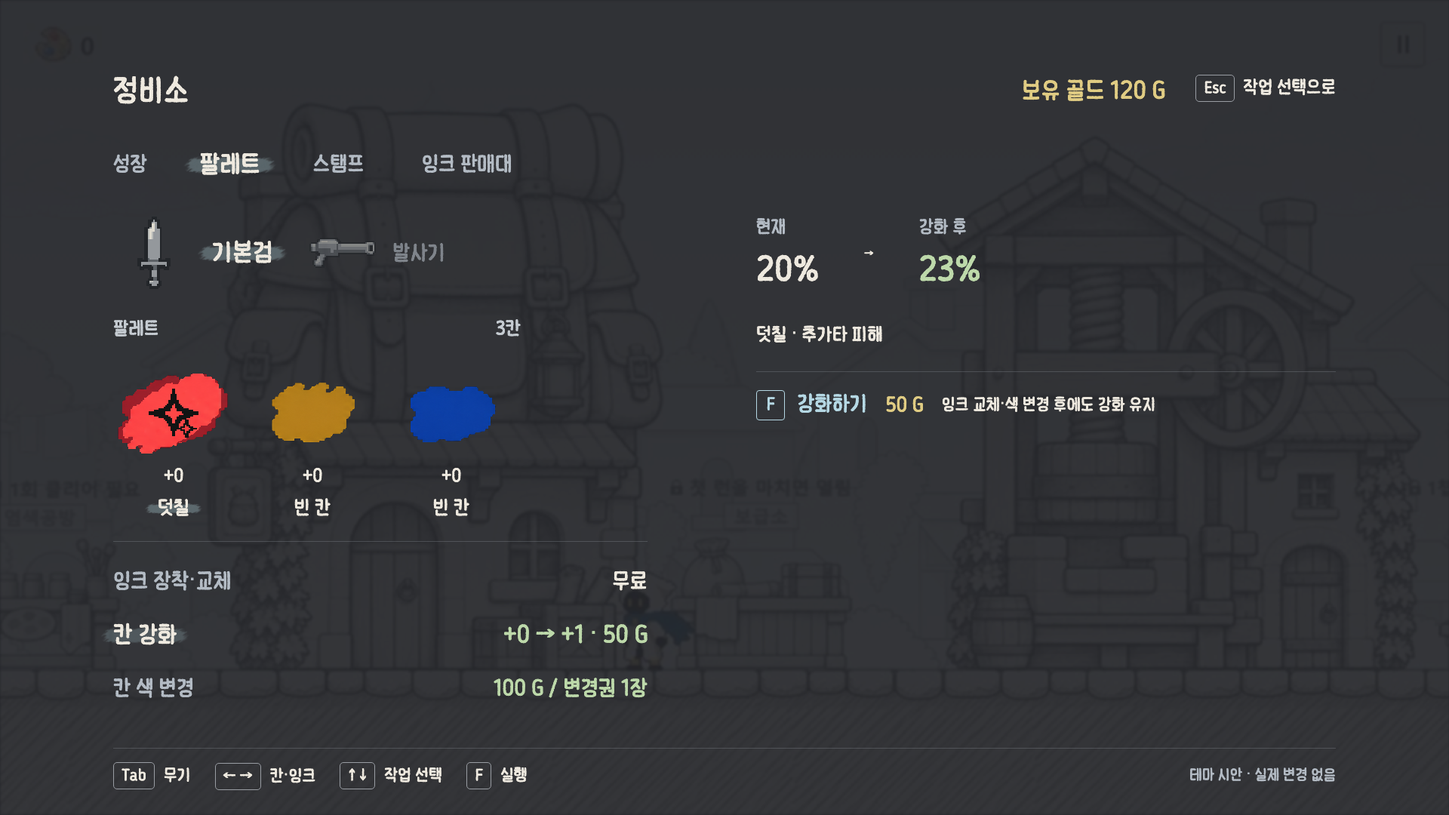
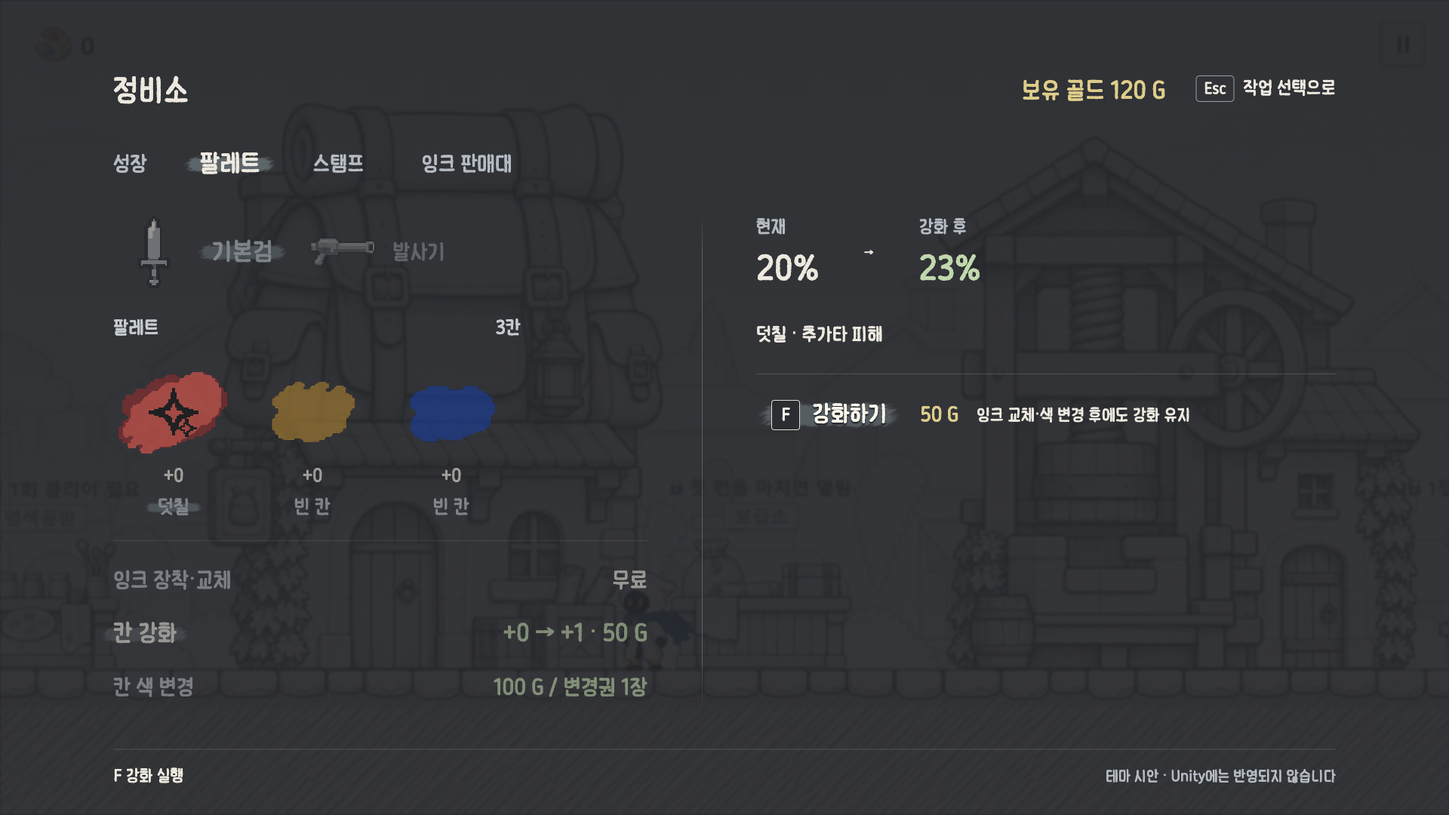
Apply explicit region navigation to maintenance palette

diff --git a/ui/work/theme/ink-pixel-v1/catalog-data.js b/ui/work/theme/ink-pixel-v1/catalog-data.js
@@ -1,1 +1,1 @@
-const catalogItems=[{"group": "가방·장비", "title": "장비 · 2단계 팔레트 선택", "img": "screen-set-v6/previews/equipment-slot-stage.png", "url": "screen-set-v6/index.html?view=equipment&stage=palette"},{"group": "가방·장비", "title": "가방", "img": "screen-set-v6/previews/bag.png", "url": "screen-set-v6/index.html?view=bag"}, {"group": "가방·장비", "title": "가방 · 아래로 스크롤 / 빈칸", "img": "screen-set-v6/previews/bag-scroll.png", "url": "screen-set-v6/index.html?view=bag&scroll=bottom"}, {"group": "가방·장비", "title": "장비 · 무기와 스킬", "img": "screen-set-v6/previews/equipment.png", "url": "screen-set-v6/index.html?view=equipment"}, {"group": "가방·장비", "title": "장비 · 발사기", "img": "screen-set-v6/previews/equipment-launcher.png", "url": "screen-set-v6/index.html?view=equipment&weapon=1"}, {"group": "가방·장비", "title": "장비 · 스탬프 없음", "img": "screen-set-v6/previews/equipment-empty-stamps.png", "url": "screen-set-v6/index.html?view=equipment&stamps=empty"}, {"group": "가방·장비", "title": "장비 · 잉크 교체", "img": "screen-set-v6/previews/equipment-palette.png", "url": "screen-set-v6/index.html?view=equipment&slot=0"}, {"group": "가방·장비", "title": "장비 · 무색 칸", "img": "screen-set-v6/previews/equipment-neutral.png", "url": "screen-set-v6/index.html?view=equipment&slot=4"}, {"group": "가방·장비", "title": "장비 · 교체 후 상태", "img": "screen-set-v6/previews/equipment-replaced.png", "url": "screen-set-v6/index.html?view=equipment&slot=0&result=done"}, {"group": "가방·장비", "title": "가방 · 빈 카테고리", "img": "screen-set-v6/previews/bag-empty.png", "url": "screen-set-v6/index.html?view=bag&category=2"}, {"group": "정비소", "title": "성장", "img": "maintenance-growth-v2/previews/growth.png", "url": "maintenance-growth-v2/index.html?"}, {"group": "정비소", "title": "팔레트 · 칸 강화", "img": "maintenance-palette-v1/previews/unified-upgrade.png", "url": "maintenance-palette-v1/index.html?task=upgrade"}, {"group": "정비소", "title": "팔레트 · 무작위 색 변경", "img": "maintenance-palette-v1/previews/unified-color.png", "url": "maintenance-palette-v1/index.html?task=color"}, {"group": "정비소", "title": "팔레트 · 반환 공간 부족", "img": "maintenance-palette-v1/previews/random-color-full.png", "url": "maintenance-palette-v1/index.html?task=color&case=full"}, {"group": "정비소", "title": "무기 스탬프", "img": "maintenance-stamp-v1/previews/weapon.png", "url": "maintenance-stamp-v1/index.html?"}, {"group": "정비소", "title": "스킬 스탬프 · 후속타", "img": "maintenance-stamp-v1/previews/skill-followup.png", "url": "maintenance-stamp-v1/index.html?kind=skill&pick=2"}, {"group": "정비소", "title": "스탬프 · 첫 장착", "img": "maintenance-stamp-v1/previews/empty.png", "url": "maintenance-stamp-v1/index.html?case=empty"}, {"group": "정비소", "title": "스탬프 · 골드 부족", "img": "maintenance-stamp-v1/previews/poor.png", "url": "maintenance-stamp-v1/index.html?case=poor"}, {"group": "판매대", "title": "잉크 판매대", "img": "ink-shop-v1/previews/shop.png", "url": "ink-shop-v1/index.html?"}, {"group": "판매대", "title": "판매대 · 구매 후", "img": "ink-shop-v1/previews/purchased.png", "url": "ink-shop-v1/index.html?case=bought"}, {"group": "판매대", "title": "판매대 · 가방 가득 참", "img": "ink-shop-v1/previews/full.png", "url": "ink-shop-v1/index.html?case=full"}, {"group": "판매대", "title": "판매대 · 골드 부족", "img": "ink-shop-v1/previews/poor.png", "url": "ink-shop-v1/index.html?case=poor"}, {"group": "지도", "title": "전체 지도 · 새 시안", "img": "full-map-v1/previews/map.png", "url": "full-map-v1/index.html?"}, {"group": "정비소", "title": "팔레트 · 변경권 선택", "img": "maintenance-palette-v1/previews/color-ticket.png", "url": "maintenance-palette-v1/index.html?task=color&payment=ticket"}, {"group": "정비소", "title": "팔레트 · 잉크 장착·교체", "img": "maintenance-palette-v1/previews/palette-ink.png", "url": "maintenance-palette-v1/index.html?task=ink"}, {"group": "지도", "title": "지도 · 200% 확대", "img": "full-map-v1/previews/map-zoom-200.png", "url": "full-map-v1/index.html?zoom=2"}, {"group": "일시정지", "title": "전투 · 일시정지", "img": "pause-menu-v1/previews/combat.png", "url": "pause-menu-v1/index.html?context=combat"}, {"group": "일시정지", "title": "마을 · 일시정지", "img": "pause-menu-v1/previews/village.png", "url": "pause-menu-v1/index.html?context=village"}, {"group": "일시정지", "title": "조작 안내", "img": "pause-menu-v1/previews/help.png", "url": "pause-menu-v1/index.html?view=help"}, {"group": "일시정지", "title": "도전 종료 · 마을 복귀 확인", "img": "pause-menu-v1/previews/confirm.png", "url": "pause-menu-v1/index.html?view=confirm"}, {"group": "출발 준비", "title": "출발 · 첫 도면 선택", "img": "departure-v1/previews/choose.png", "url": "departure-v1/index.html?"}, {"group": "출발 준비", "title": "출발 · 두 번째 도면 선택", "img": "departure-v1/previews/second.png", "url": "departure-v1/index.html?step=2"}, {"group": "출발 준비", "title": "준비 저장 · 다시 뽑기 없음", "img": "departure-v1/previews/palette-three.png", "url": "departure-v1/index.html?view=ready"}, {"group": "출발 준비", "title": "시작 팔레트 · 5칸 / 무색 / 다시 뽑기", "img": "departure-v1/previews/palette-five.png", "url": "departure-v1/index.html?view=palette&slots=5"}, {"group": "출발 준비", "title": "출발 준비 저장", "img": "departure-v1/previews/ready.png", "url": "departure-v1/index.html?view=ready"}, {"group": "일시정지", "title": "마을 · 다시 시작 확인", "img": "pause-menu-v1/previews/restart.png", "url": "pause-menu-v1/index.html?context=village&view=restart"}, {"group": "도전 결과", "title": "일반 사망", "img": "run-result-v1/previews/death.png", "url": "run-result-v1/index.html?kind=death"}, {"group": "도전 결과", "title": "보스전 사망", "img": "run-result-v1/previews/boss.png", "url": "run-result-v1/index.html?kind=boss"}, {"group": "도전 결과", "title": "첫 챕터 클리어", "img": "run-result-v1/previews/clear.png", "url": "run-result-v1/index.html?kind=clear"}, {"group": "전투 HUD", "title": "전투 HUD · 기본", "img": "combat-hud-v2/previews/exploration.png", "url": "combat-hud-v2/index.html?"}, {"group": "전투 HUD", "title": "전투 HUD · 어두운 배경", "img": "combat-hud-v2/previews/dark.png", "url": "combat-hud-v2/index.html?scene=dark"}, {"group": "전투 HUD", "title": "전투 HUD · 획득 알림", "img": "combat-hud-v2/previews/pickup.png", "url": "combat-hud-v2/index.html?state=pickup"}, {"group": "전투 HUD", "title": "전투 HUD · 보스 배치", "img": "combat-hud-v2/previews/boss.png", "url": "combat-hud-v2/index.html?state=boss"}, {"group": "설정", "title": "소리 설정", "img": "settings-v1/previews/sound.png", "url": "settings-v1/index.html?tab=sound"}, {"group": "설정", "title": "화면 설정", "img": "settings-v1/previews/display.png", "url": "settings-v1/index.html?tab=display&state=changed"}, {"group": "설정", "title": "조작 설정 · 이동 / 스크롤 상단", "img": "settings-v1/previews/controls.png", "url": "settings-v1/index.html?tab=controls"}, {"group": "설정", "title": "조작 설정 · 전투 / 스크롤 중간", "img": "settings-v1/previews/controls-combat.png", "url": "settings-v1/index.html?tab=controls&scroll=combat"}, {"group": "설정", "title": "조작 설정 · 탐험 / 스크롤 하단", "img": "settings-v1/previews/controls-explore.png", "url": "settings-v1/index.html?tab=controls&scroll=bottom"}, {"group": "설정", "title": "조작키 변경", "img": "settings-v1/previews/rebind.png", "url": "settings-v1/index.html?tab=controls&state=rebind"}, {"group": "설정", "title": "화면 적용 확인", "img": "settings-v1/previews/confirm.png", "url": "settings-v1/index.html?tab=display&state=confirm"}, {"group": "재화 에셋", "title": "골드 · 마법안료 — 확정 형태", "img": "currency-v1/preview.png", "url": "currency-v1/index.html"}, {"group": "봉인 도전", "title": "증강 보상 · 공격력 선택", "img": "seal-reward-v1/previews/choice-0.png", "url": "seal-reward-v1/index.html?pick=0"}, {"group": "봉인 도전", "title": "증강 보상 · 공격 속도 선택", "img": "seal-reward-v1/previews/choice-1.png", "url": "seal-reward-v1/index.html?pick=1"}, {"group": "봉인 도전", "title": "증강 보상 · 최대 체력 선택", "img": "seal-reward-v1/previews/choice-2.png", "url": "seal-reward-v1/index.html?pick=2"}, {"group": "보스 잉크 제단", "title": "제단 · 색상 선택", "img": "boss-altar-v1/previews/colors.png", "url": "boss-altar-v1/index.html?"}, {"group": "보스 잉크 제단", "title": "제단 · 잉크 후보 비교", "img": "boss-altar-v1/previews/inks.png", "url": "boss-altar-v1/index.html?color=red"}, {"group": "출발 준비", "title": "출발 준비 · 확정 버튼 선택", "img": "departure-v1/previews/ready-confirm.png", "url": "departure-v1/index.html?view=ready&action=confirm"}];
+const catalogItems=[{"group": "정비소", "title": "팔레트 · 무기 선택부터 조작", "img": "maintenance-palette-v1/previews/flow-weapon.png", "url": "maintenance-palette-v1/index.html?"},{"group": "정비소", "title": "팔레트 · 칸 선택", "img": "maintenance-palette-v1/previews/flow-slot.png", "url": "maintenance-palette-v1/index.html?region=slot&state=slot"},{"group": "정비소", "title": "팔레트 · 작업 선택", "img": "maintenance-palette-v1/previews/flow-task.png", "url": "maintenance-palette-v1/index.html?region=task&task=upgrade"},{"group": "가방·장비", "title": "장비 · 2단계 팔레트 선택", "img": "screen-set-v6/previews/equipment-slot-stage.png", "url": "screen-set-v6/index.html?view=equipment&stage=palette"},{"group": "가방·장비", "title": "가방", "img": "screen-set-v6/previews/bag.png", "url": "screen-set-v6/index.html?view=bag"}, {"group": "가방·장비", "title": "가방 · 아래로 스크롤 / 빈칸", "img": "screen-set-v6/previews/bag-scroll.png", "url": "screen-set-v6/index.html?view=bag&scroll=bottom"}, {"group": "가방·장비", "title": "장비 · 무기와 스킬", "img": "screen-set-v6/previews/equipment.png", "url": "screen-set-v6/index.html?view=equipment"}, {"group": "가방·장비", "title": "장비 · 발사기", "img": "screen-set-v6/previews/equipment-launcher.png", "url": "screen-set-v6/index.html?view=equipment&weapon=1"}, {"group": "가방·장비", "title": "장비 · 스탬프 없음", "img": "screen-set-v6/previews/equipment-empty-stamps.png", "url": "screen-set-v6/index.html?view=equipment&stamps=empty"}, {"group": "가방·장비", "title": "장비 · 잉크 교체", "img": "screen-set-v6/previews/equipment-palette.png", "url": "screen-set-v6/index.html?view=equipment&slot=0"}, {"group": "가방·장비", "title": "장비 · 무색 칸", "img": "screen-set-v6/previews/equipment-neutral.png", "url": "screen-set-v6/index.html?view=equipment&slot=4"}, {"group": "가방·장비", "title": "장비 · 교체 후 상태", "img": "screen-set-v6/previews/equipment-replaced.png", "url": "screen-set-v6/index.html?view=equipment&slot=0&result=done"}, {"group": "가방·장비", "title": "가방 · 빈 카테고리", "img": "screen-set-v6/previews/bag-empty.png", "url": "screen-set-v6/index.html?view=bag&category=2"}, {"group": "정비소", "title": "성장", "img": "maintenance-growth-v2/previews/growth.png", "url": "maintenance-growth-v2/index.html?"}, {"group": "정비소", "title": "팔레트 · 칸 강화", "img": "maintenance-palette-v1/previews/unified-upgrade.png", "url": "maintenance-palette-v1/index.html?task=upgrade"}, {"group": "정비소", "title": "팔레트 · 무작위 색 변경", "img": "maintenance-palette-v1/previews/unified-color.png", "url": "maintenance-palette-v1/index.html?task=color"}, {"group": "정비소", "title": "팔레트 · 반환 공간 부족", "img": "maintenance-palette-v1/previews/random-color-full.png", "url": "maintenance-palette-v1/index.html?task=color&case=full"}, {"group": "정비소", "title": "무기 스탬프", "img": "maintenance-stamp-v1/previews/weapon.png", "url": "maintenance-stamp-v1/index.html?"}, {"group": "정비소", "title": "스킬 스탬프 · 후속타", "img": "maintenance-stamp-v1/previews/skill-followup.png", "url": "maintenance-stamp-v1/index.html?kind=skill&pick=2"}, {"group": "정비소", "title": "스탬프 · 첫 장착", "img": "maintenance-stamp-v1/previews/empty.png", "url": "maintenance-stamp-v1/index.html?case=empty"}, {"group": "정비소", "title": "스탬프 · 골드 부족", "img": "maintenance-stamp-v1/previews/poor.png", "url": "maintenance-stamp-v1/index.html?case=poor"}, {"group": "판매대", "title": "잉크 판매대", "img": "ink-shop-v1/previews/shop.png", "url": "ink-shop-v1/index.html?"}, {"group": "판매대", "title": "판매대 · 구매 후", "img": "ink-shop-v1/previews/purchased.png", "url": "ink-shop-v1/index.html?case=bought"}, {"group": "판매대", "title": "판매대 · 가방 가득 참", "img": "ink-shop-v1/previews/full.png", "url": "ink-shop-v1/index.html?case=full"}, {"group": "판매대", "title": "판매대 · 골드 부족", "img": "ink-shop-v1/previews/poor.png", "url": "ink-shop-v1/index.html?case=poor"}, {"group": "지도", "title": "전체 지도 · 새 시안", "img": "full-map-v1/previews/map.png", "url": "full-map-v1/index.html?"}, {"group": "정비소", "title": "팔레트 · 변경권 선택", "img": "maintenance-palette-v1/previews/color-ticket.png", "url": "maintenance-palette-v1/index.html?task=color&payment=ticket"}, {"group": "정비소", "title": "팔레트 · 잉크 장착·교체", "img": "maintenance-palette-v1/previews/palette-ink.png", "url": "maintenance-palette-v1/index.html?task=ink"}, {"group": "지도", "title": "지도 · 200% 확대", "img": "full-map-v1/previews/map-zoom-200.png", "url": "full-map-v1/index.html?zoom=2"}, {"group": "일시정지", "title": "전투 · 일시정지", "img": "pause-menu-v1/previews/combat.png", "url": "pause-menu-v1/index.html?context=combat"}, {"group": "일시정지", "title": "마을 · 일시정지", "img": "pause-menu-v1/previews/village.png", "url": "pause-menu-v1/index.html?context=village"}, {"group": "일시정지", "title": "조작 안내", "img": "pause-menu-v1/previews/help.png", "url": "pause-menu-v1/index.html?view=help"}, {"group": "일시정지", "title": "도전 종료 · 마을 복귀 확인", "img": "pause-menu-v1/previews/confirm.png", "url": "pause-menu-v1/index.html?view=confirm"}, {"group": "출발 준비", "title": "출발 · 첫 도면 선택", "img": "departure-v1/previews/choose.png", "url": "departure-v1/index.html?"}, {"group": "출발 준비", "title": "출발 · 두 번째 도면 선택", "img": "departure-v1/previews/second.png", "url": "departure-v1/index.html?step=2"}, {"group": "출발 준비", "title": "준비 저장 · 다시 뽑기 없음", "img": "departure-v1/previews/palette-three.png", "url": "departure-v1/index.html?view=ready"}, {"group": "출발 준비", "title": "시작 팔레트 · 5칸 / 무색 / 다시 뽑기", "img": "departure-v1/previews/palette-five.png", "url": "departure-v1/index.html?view=palette&slots=5"}, {"group": "출발 준비", "title": "출발 준비 저장", "img": "departure-v1/previews/ready.png", "url": "departure-v1/index.html?view=ready"}, {"group": "일시정지", "title": "마을 · 다시 시작 확인", "img": "pause-menu-v1/previews/restart.png", "url": "pause-menu-v1/index.html?context=village&view=restart"}, {"group": "도전 결과", "title": "일반 사망", "img": "run-result-v1/previews/death.png", "url": "run-result-v1/index.html?kind=death"}, {"group": "도전 결과", "title": "보스전 사망", "img": "run-result-v1/previews/boss.png", "url": "run-result-v1/index.html?kind=boss"}, {"group": "도전 결과", "title": "첫 챕터 클리어", "img": "run-result-v1/previews/clear.png", "url": "run-result-v1/index.html?kind=clear"}, {"group": "전투 HUD", "title": "전투 HUD · 기본", "img": "combat-hud-v2/previews/exploration.png", "url": "combat-hud-v2/index.html?"}, {"group": "전투 HUD", "title": "전투 HUD · 어두운 배경", "img": "combat-hud-v2/previews/dark.png", "url": "combat-hud-v2/index.html?scene=dark"}, {"group": "전투 HUD", "title": "전투 HUD · 획득 알림", "img": "combat-hud-v2/previews/pickup.png", "url": "combat-hud-v2/index.html?state=pickup"}, {"group": "전투 HUD", "title": "전투 HUD · 보스 배치", "img": "combat-hud-v2/previews/boss.png", "url": "combat-hud-v2/index.html?state=boss"}, {"group": "설정", "title": "소리 설정", "img": "settings-v1/previews/sound.png", "url": "settings-v1/index.html?tab=sound"}, {"group": "설정", "title": "화면 설정", "img": "settings-v1/previews/display.png", "url": "settings-v1/index.html?tab=display&state=changed"}, {"group": "설정", "title": "조작 설정 · 이동 / 스크롤 상단", "img": "settings-v1/previews/controls.png", "url": "settings-v1/index.html?tab=controls"}, {"group": "설정", "title": "조작 설정 · 전투 / 스크롤 중간", "img": "settings-v1/previews/controls-combat.png", "url": "settings-v1/index.html?tab=controls&scroll=combat"}, {"group": "설정", "title": "조작 설정 · 탐험 / 스크롤 하단", "img": "settings-v1/previews/controls-explore.png", "url": "settings-v1/index.html?tab=controls&scroll=bottom"}, {"group": "설정", "title": "조작키 변경", "img": "settings-v1/previews/rebind.png", "url": "settings-v1/index.html?tab=controls&state=rebind"}, {"group": "설정", "title": "화면 적용 확인", "img": "settings-v1/previews/confirm.png", "url": "settings-v1/index.html?tab=display&state=confirm"}, {"group": "재화 에셋", "title": "골드 · 마법안료 — 확정 형태", "img": "currency-v1/preview.png", "url": "currency-v1/index.html"}, {"group": "봉인 도전", "title": "증강 보상 · 공격력 선택", "img": "seal-reward-v1/previews/choice-0.png", "url": "seal-reward-v1/index.html?pick=0"}, {"group": "봉인 도전", "title": "증강 보상 · 공격 속도 선택", "img": "seal-reward-v1/previews/choice-1.png", "url": "seal-reward-v1/index.html?pick=1"}, {"group": "봉인 도전", "title": "증강 보상 · 최대 체력 선택", "img": "seal-reward-v1/previews/choice-2.png", "url": "seal-reward-v1/index.html?pick=2"}, {"group": "보스 잉크 제단", "title": "제단 · 색상 선택", "img": "boss-altar-v1/previews/colors.png", "url": "boss-altar-v1/index.html?"}, {"group": "보스 잉크 제단", "title": "제단 · 잉크 후보 비교", "img": "boss-altar-v1/previews/inks.png", "url": "boss-altar-v1/index.html?color=red"}, {"group": "출발 준비", "title": "출발 준비 · 확정 버튼 선택", "img": "departure-v1/previews/ready-confirm.png", "url": "departure-v1/index.html?view=ready&action=confirm"}];

diff --git a/ui/work/theme/ink-pixel-v1/maintenance-palette-v1/navigation.js b/ui/work/theme/ink-pixel-v1/maintenance-palette-v1/navigation.js
@@ -1,0 +1,70 @@
+// Directions browse the active region; F enters or executes; Esc backs out.
+let activeRegion=new URLSearchParams(location.search).get('region')||(task?'detail':'weapon');
+if(!['weapon','slot','task','detail'].includes(activeRegion))activeRegion='weapon';
+let taskCursor=task||'ink';
+const baseRender=render;
+function confirmRegion(){
+ if(activeRegion==='weapon'){activeRegion='slot';slot=Math.max(0,slot);task=null;}
+ else if(activeRegion==='slot'){activeRegion='task';task=taskCursor;candidate=available()[0]?.index??-1;}
+ else if(activeRegion==='task'){activeRegion='detail';}
+ else{const b=document.querySelector('.taskDecision button');if(!b||b.disabled)return;executeTask();return;}
+ render();
+}
+function backRegion(){
+ if(activeRegion==='detail')activeRegion='task';
+ else if(activeRegion==='task'){activeRegion='slot';task=null;}
+ else if(activeRegion==='slot'){activeRegion='weapon';task=null;}
+ else return;
+ message='';render();
+}
+render=function(){
+ baseRender();document.body.dataset.region=activeRegion;
+ const detail=document.getElementById('detail');
+ const weapons=document.querySelectorAll('.weapons button');
+ weapons.forEach((b,i)=>{b.disabled=activeRegion!=='weapon';b.onclick=()=>{weapon=i;slot=-1;task=null;render()};});
+ const slots=document.querySelectorAll('.slot');
+ slots.forEach((b,i)=>{b.disabled=activeRegion!=='slot';b.onclick=()=>{slot=i;task=null;message='';render()};});
+ const tasks=document.querySelectorAll('.taskOption');
+ tasks.forEach((b,i)=>{b.disabled=activeRegion!=='task';b.onclick=()=>{taskCursor=['ink','upgrade','color'][i];task=taskCursor;candidate=available()[0]?.index??-1;message='';render()};});
+ detail.querySelectorAll('.candidateRow button,.paymentOption').forEach(b=>b.disabled=activeRegion!=='detail');
+ const old=detail.querySelector('.taskDecision');
+ if(activeRegion!=='detail'){
+  old?.remove();
+  if(activeRegion==='weapon')detail.innerHTML='<p class="label">무기를 선택하세요</p>';
+  if(activeRegion==='slot'){
+   const ink=inks[sets[weapon][slot]];
+   detail.innerHTML=`<p class="label">현재 장착 · ${slot+1}번 칸</p><h2>${ink?.name||'빈 칸'}</h2><p class="effect">${ink?.desc||'장착된 잉크 없음'}</p>`;
+  }
+  const action=document.createElement('div');action.className='taskDecision regionAction';
+  action.innerHTML='<button><kbd>F</kbd>'+({weapon:'팔레트 선택',slot:'작업 선택',task:'선택한 작업으로'})[activeRegion]+'</button>';
+  action.querySelector('button').onclick=confirmRegion;detail.append(action);
+ }else if(old){old.querySelector('button').onclick=confirmRegion;}
+ document.getElementById('escLabel').textContent={weapon:'탭 이동: Tab',slot:'무기 선택으로',task:'팔레트 선택으로',detail:'작업 선택으로'}[activeRegion];
+ if(activeRegion==='weapon')document.querySelector('header aside>span:last-child').innerHTML='<span id="escLabel">Tab · 탭 이동</span>';
+ else document.querySelector('header aside>span:last-child').innerHTML='<kbd>Esc</kbd><span id="escLabel">'+({slot:'무기 선택으로',task:'팔레트 선택으로',detail:'작업 선택으로'})[activeRegion]+'</span>';
+ document.querySelector('.foot').innerHTML='<span id="fLabel" hidden></span><span>'+({weapon:'← → 무기 선택',slot:'← → 팔레트 선택',task:'↑ ↓ 작업 선택',detail:task==='upgrade'?'F 강화 실행':task==='color'?'← → 결제 방법 선택':'← → 잉크 선택'})[activeRegion]+'</span><span class="note">테마 시안 · Unity에는 반영되지 않습니다</span>';
+ const focus=activeRegion==='weapon'?weapons[weapon]:activeRegion==='slot'?slots[slot]:activeRegion==='task'?document.querySelector('.selectedTask'):detail.querySelector('.candidateRow .mark,.paymentOption.isSelected,.taskDecision button');
+ focus?.focus({preventScroll:true});
+};
+document.addEventListener('keydown',e=>{
+ if(!['ArrowLeft','ArrowRight','ArrowUp','ArrowDown','f','F','Enter','Escape'].includes(e.key))return;
+ if(document.activeElement?.closest('nav'))return;
+ e.preventDefault();e.stopImmediatePropagation();if(e.repeat)return;
+ if(['f','F','Enter'].includes(e.key)){confirmRegion();return;}
+ if(e.key==='Escape'){backRegion();return;}
+ const delta=['ArrowRight','ArrowDown'].includes(e.key)?1:-1;
+ if(activeRegion==='task'){
+  if(!['ArrowUp','ArrowDown'].includes(e.key))return;
+  const all=['ink','upgrade','color'];taskCursor=all[(all.indexOf(taskCursor)+delta+3)%3];task=taskCursor;candidate=available()[0]?.index??-1;
+ }else{
+  if(!['ArrowLeft','ArrowRight'].includes(e.key))return;
+  if(activeRegion==='weapon'){weapon=1-weapon;slot=-1;task=null;}
+  else if(activeRegion==='slot'){slot=(slot+delta+colors.length)%colors.length;task=null;}
+  else if(task==='color')payment=payment==='gold'?'ticket':'gold';
+  else if(task==='ink'){const a=available();if(a.length)candidate=a[(a.findIndex(x=>x.index===candidate)+delta+a.length)%a.length].index;}
+ }
+ message='';render();
+},true);
+// Preserve native Tab navigation; suppress the legacy Tab weapon shortcut.
+document.addEventListener('keydown',e=>{if(e.key==='Tab')e.stopImmediatePropagation()},true);
+render();

diff --git a/ui/work/theme/ink-pixel-v1/maintenance-palette-v1/navigation.css b/ui/work/theme/ink-pixel-v1/maintenance-palette-v1/navigation.css
@@ -1,0 +1,13 @@
+.cols{position:relative}.cols:before{content:'';position:absolute;left:780px;top:0;bottom:0;width:1px;background:linear-gradient(transparent,#c4c6c74d 8%,#c4c6c74d 90%,transparent);pointer-events:none}
+body:not([data-region="weapon"]) .weapons{opacity:.6}
+body:not([data-region="slot"]) .slots{opacity:.6}
+body:not([data-region="task"]) .services{opacity:.55}
+body[data-region="weapon"] .services{visibility:hidden}
+body[data-region="task"] #detail>.upgradeCompare,body[data-region="task"] #detail>.colorCompare,body[data-region="task"] #detail>.afterState,body[data-region="task"] #detail>.candidateRow,body[data-region="task"] #detail>.payment{opacity:.55}
+body[data-region] button:focus{outline:none}
+body[data-region] .taskDecision{position:static!important;margin-top:32px!important;padding-top:22px!important;border-top:1px solid #a8afb640!important;display:flex;gap:24px;align-items:center;flex-wrap:wrap}
+body[data-region] .taskDecision button{position:relative;isolation:isolate;background:none!important;color:#fff8eb!important;text-shadow:0 2px 2px #171a20;padding:12px 20px!important;font-size:32px!important;border:0!important}
+body[data-region] .taskDecision button:before{content:'';position:absolute;inset:0;z-index:-1;background:url(assets/selection-wash-v1.png) center/100% 100% no-repeat;opacity:.34;pointer-events:none}
+.taskDecision button kbd{background:#292d32;color:#fff8eb;border-color:#e2ded4;text-shadow:none}
+.taskDecision button:disabled{opacity:.5}.taskDecision .decisionNote{margin:0;font-size:24px}
+body[data-region] .candidateRow .mark:after{display:none}

diff --git a/ui/work/theme/ink-pixel-v1/maintenance-palette-v1/index.html b/ui/work/theme/ink-pixel-v1/maintenance-palette-v1/index.html
@@ -185,3 +185,5 @@ function fit(){document.querySelector('.screen').style.transform=`scale(${Math.m
 const q=new URLSearchParams(location.search),view=q.get('task');if(q.get('payment')==='ticket')payment='ticket';if(view){slot=q.get('case')==='empty'?1:0;task=view;candidate=available()[0]?.index??-1;colorInk=colorCandidates()[0]?.index??-1;}else if(q.get('state')==='ink'){task='ink';candidate=1;}fit();render();
 </script></html><script src="../review-font.js"></script>
 <link rel="stylesheet" href="../action-keycaps.css"><script src="../action-keycaps.js"></script>
+
+<link rel="stylesheet" href="navigation.css"><script src="navigation.js"></script>

diff --git a/ui/work/theme/ink-pixel-v1/maintenance-palette-v1/navigation-review.md b/ui/work/theme/ink-pixel-v1/maintenance-palette-v1/navigation-review.md
@@ -1,0 +1,6 @@
+# 정비소 팔레트 조작 개정
+무기 선택 → F → 칸 선택 → F → 작업 선택 → F → 실행 영역.
+무기·칸·잉크·결제 방법은 좌우, 작업은 위아래. 실행 영역에서 F로 실행. Esc는 한 단계 복귀. 상단 단계 표시 없음.
+현재 영역만 활성화하고 이전 선택은 어둡게 유지. 좌우 구분선과 밝은 버튼 글자, 기존 붓칠 에셋 적용.
+기존 색 변경/잉크 장착 결과는 미리보기이며 Unity에 반영되지 않음. 강화는 브라우저 시안의 수치만 변경.
+검증: 최종 F 전 비용 미차감, 강화 후 차감, Esc 복귀, 결제/잉크 선택 시 팔레트 고정, 이미지 누락 없음.
